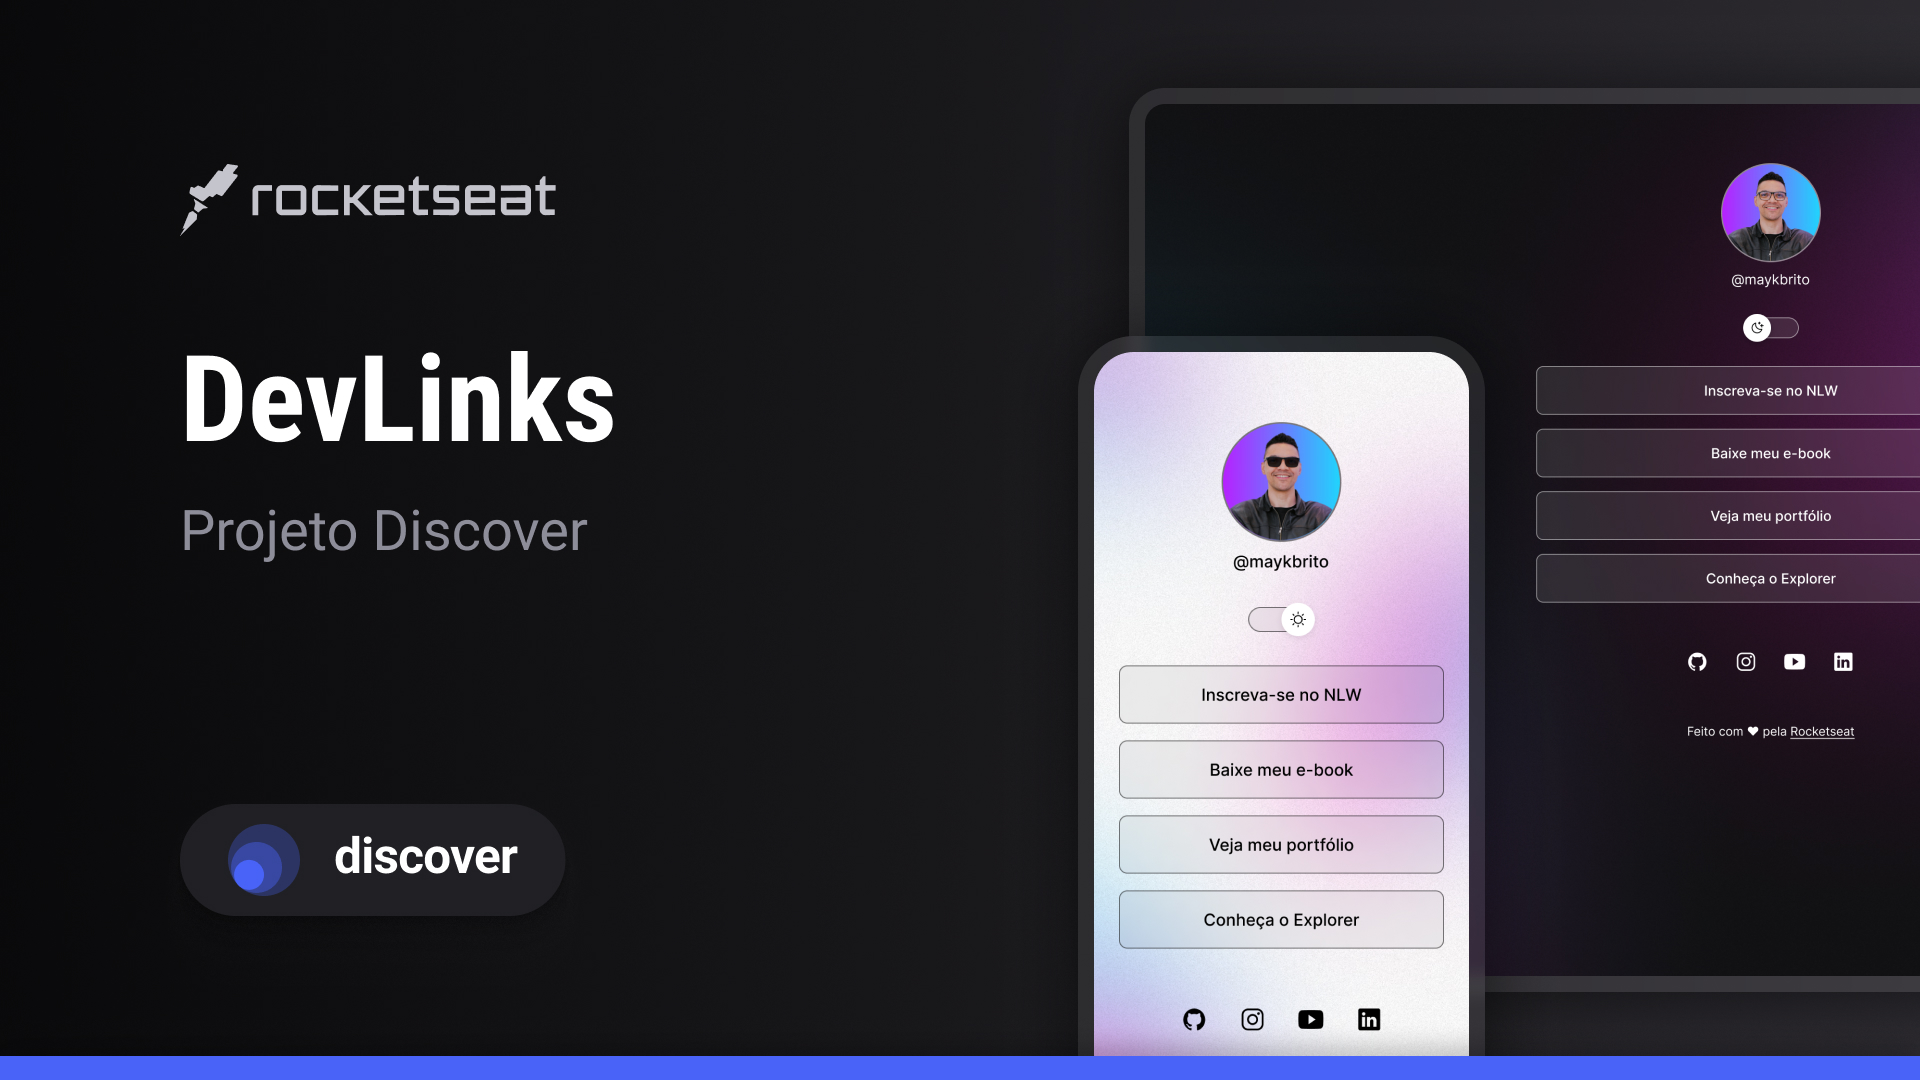
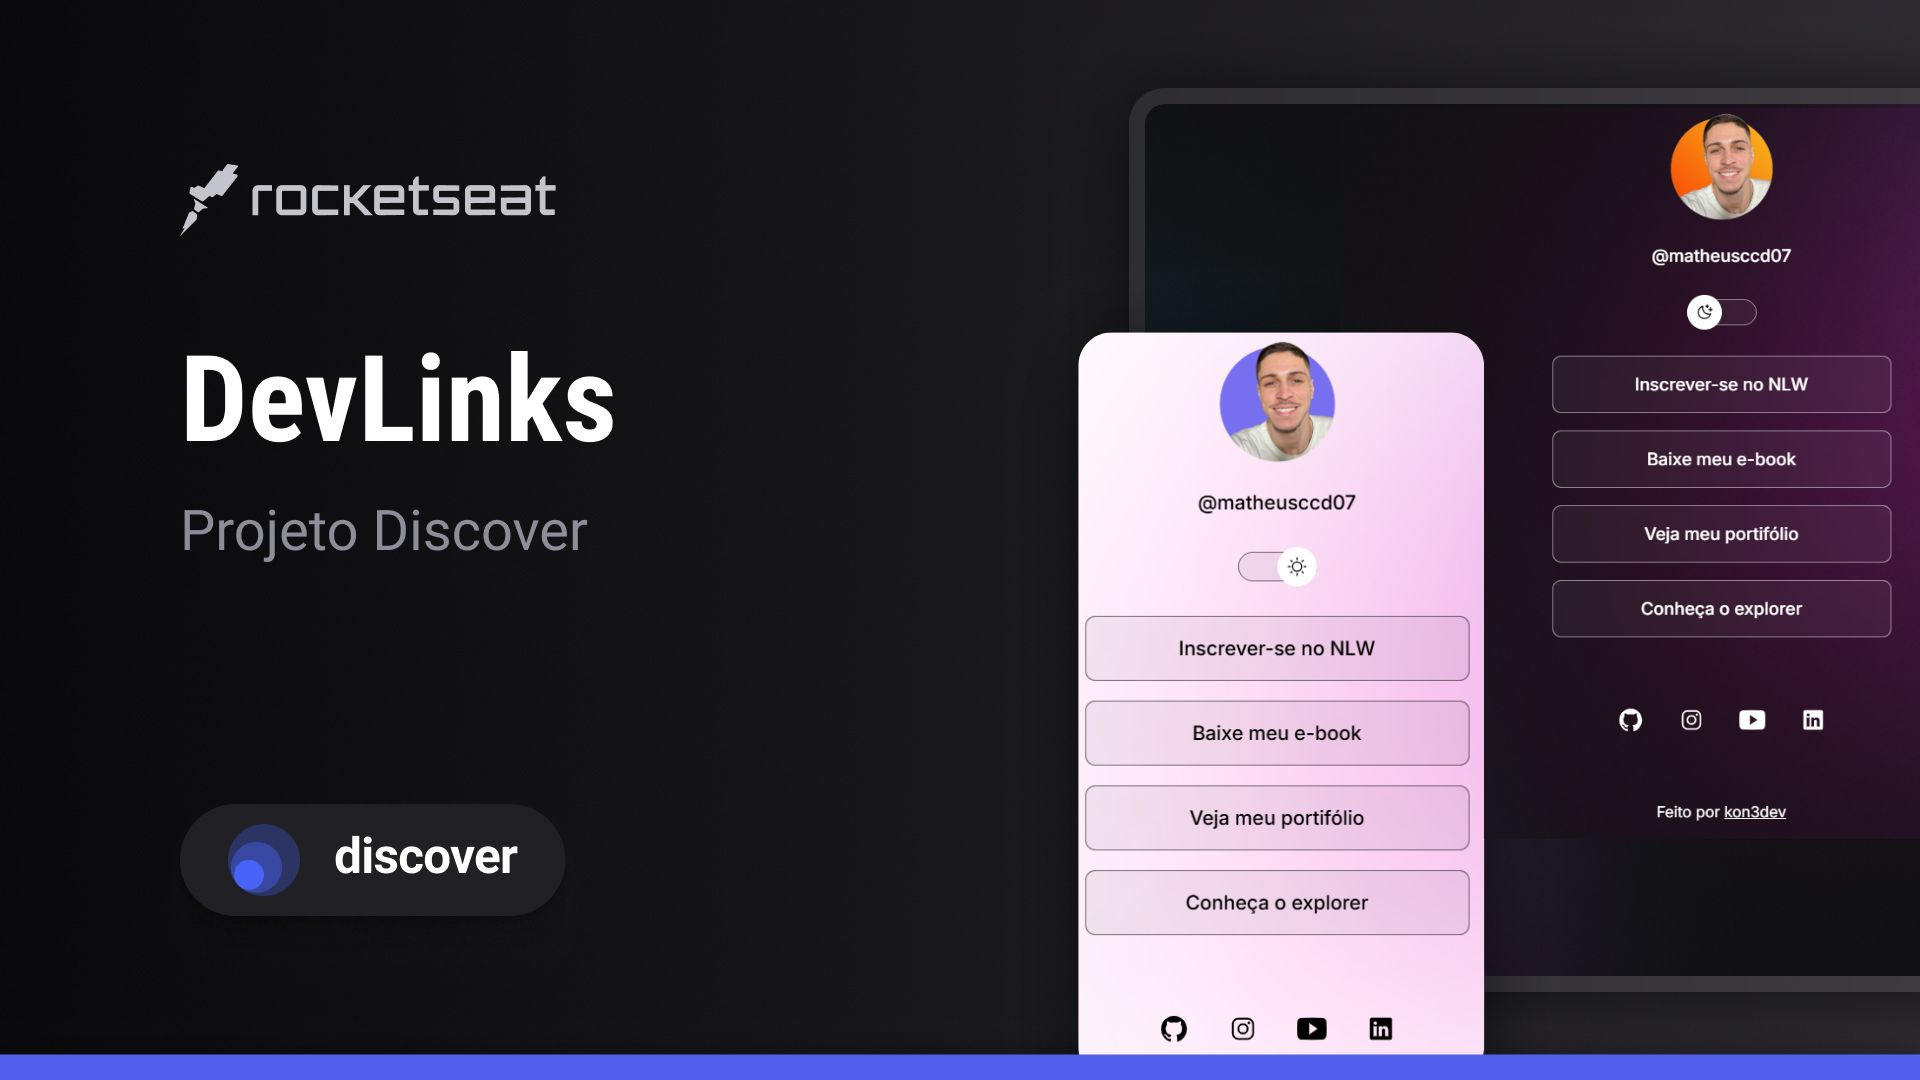
edit style css and readme

Changed region(s): [[0.5312, 0.0917, 1.0, 0.9778], [0.875, 0.7333, 0.9375, 0.7639], [0.9688, 0.4889, 1.0, 0.5194]]

diff --git a/.vscode/style.css b/.vscode/style.css
@@ -6,7 +6,7 @@
 
 :root {
   --text-color: white;
-  --bg-url: url(./assets/bg-mobile.jpg);
+  --bg-url: url(./assets/bg-desktop.jpg);
   --stroke-color: rgba(255, 255, 255, 0.5);
   --surface-color: rgba(255, 255, 255, 0.05);
   --surface-color-hover: rgba(0, 0, 0, 0.02);
@@ -16,7 +16,7 @@
 
 .light {
   --text-color: black;
-  --bg-url: url(./assets/bg-mobile-light.jpg);
+  --bg-url: url(./assets/bg-desktop-light.jpg);
   --stroke-color: rgba(0, 0, 0, 0.5);
   --surface-color: rgba(0, 0, 0, 0.05);
   --surface-color-hover: rgba(0, 0, 0, 0.02);
